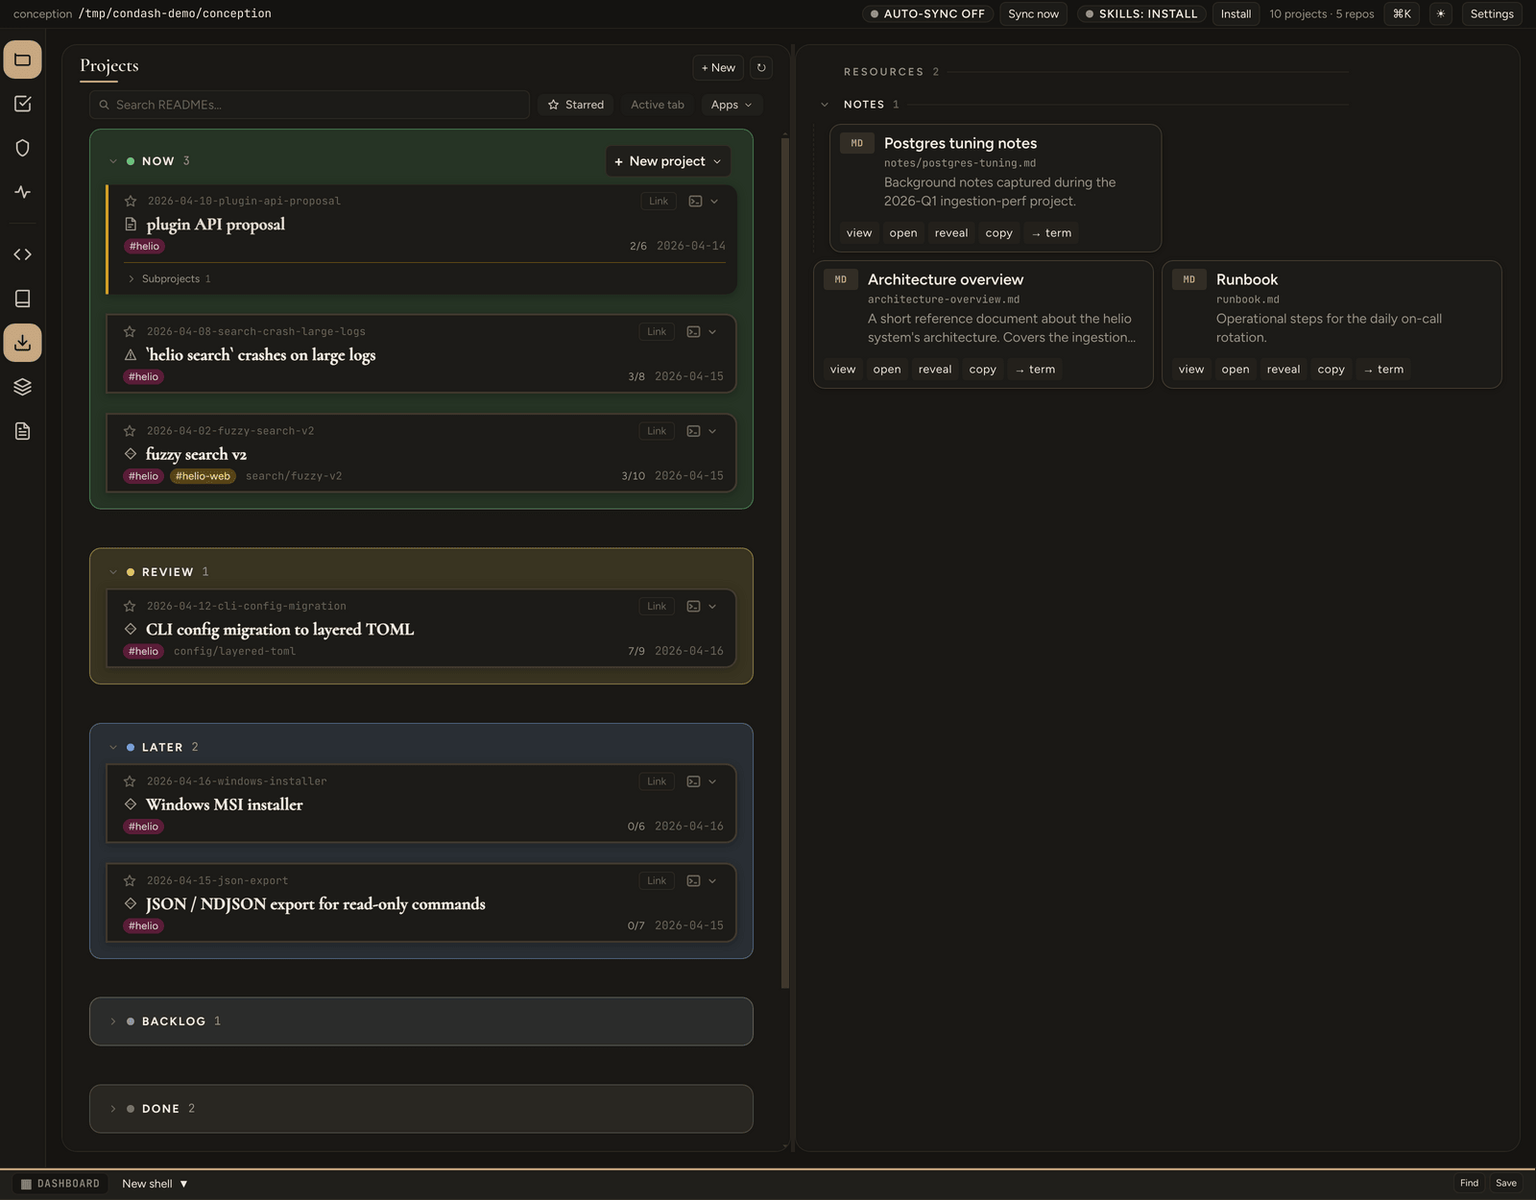
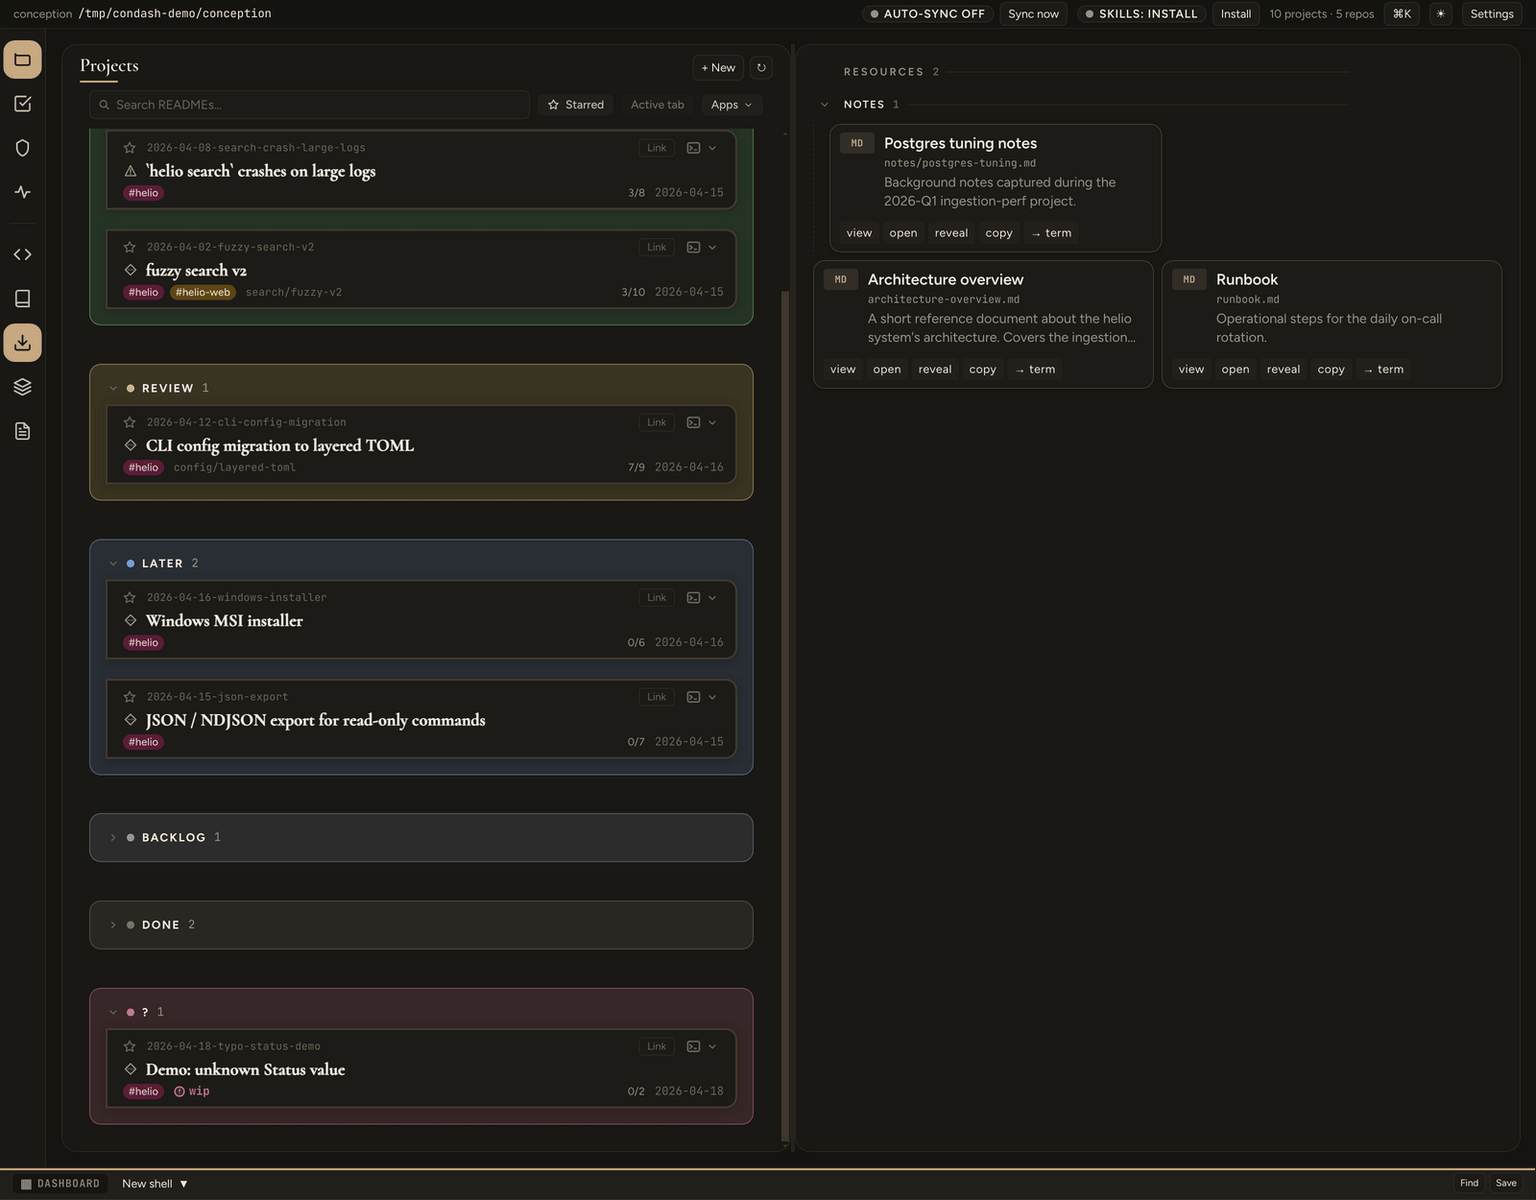
docs: stop resetting the stack scroll, and make publishing verify itself
Round 3 found two published images broken, both by the previous commit, and both invisible to every check then in place.

The scrollTop reset scrolled status-unknown-badge's entire subject out of frame. That shot deliberately scrollIntoViewIfNeeded()s the unknown-status row and asserts it is in the viewport — then shoot() reset the offset to 0, where that lane sits below the fold, and the published pair ended at DONE with no ? group at all. The in-viewport assertion still passed because it runs before the capture. So the reset is gone: settleStackFold now nudges from wherever the capture left the stack. The inherited-offset bug the reset was reaching for is already handled by the thing that actually fixed it — every full-window capture is checked, so an offset arriving from an earlier shot is corrected rather than published.

settings-modal-dark.png was a byte-identical copy of the light file. The captures in tests/screenshots-out/ were correct; I clobbered it publishing them by hand. The docs copy was a shell recipe in the spec header, retyped after every regeneration, and no assertion could see it because the file-level checks read the capture directory, not docs/. It is now scripts/publish-screenshots.mjs, which renames, halves, runs the palette pass, and then verifies: every pair present, plausibly sized, and not byte-identical. Run against the broken tree it reported the defect immediately.
[…]

diff --git a/tests/screenshots.spec.ts b/tests/screenshots.spec.ts
@@ -6,25 +6,19 @@
  *
  * Run as `npm run test -- --reporter=list screenshots.spec.ts`. Output lands in
  * `tests/screenshots-out/{light,dark}/<name>.png` — with NO theme suffix, one
- * directory per theme. Landing them in `docs/assets/screenshots/` therefore
- * needs a rename, not a plain `cp` (a bare
- * `cp tests/screenshots-out/{light,dark}/*.png docs/assets/screenshots/` writes
- * unsuffixed names and lets the dark pass clobber the light one), plus a
- * halving back to the logical `VIEWPORT` size the docs ship:
+ * directory per theme — and reaches `docs/assets/screenshots/` through
  *
- *   for theme in light dark; do
- *     for f in tests/screenshots-out/$theme/*.png; do
- *       convert "$f" -resize 50% -strip \
- *         "docs/assets/screenshots/$(basename "$f" .png)-$theme.png"
- *     done
- *   done
- *   pngquant --force --skip-if-larger --quality=70-95 --ext .png \
- *     docs/assets/screenshots/*.png
+ *   node scripts/publish-screenshots.mjs
  *
+ * which renames per theme, halves the 2× capture back to the logical `VIEWPORT`
+ * size the docs ship, runs the palette pass that keeps the directory at ~2.9 MB,
+ * and then verifies its own output. That used to be a shell recipe retyped here
+ * by hand, and the rename is a trap — a bare `cp` writes unsuffixed names and
+ * lets the dark pass clobber the light one. It was mis-run exactly that way, and
+ * a dark-mode reader was served a light screenshot until a review caught it; the
+ * script's byte-identical-pair check is that failure, made unshippable.
  * (ImageMagick and pngquant are local docs-authoring tools only — the harness
- * itself has no such dependency, so the tag-time CI run stays clean. Without
- * them, `cp` the 2× files instead and accept ~14 MB of assets. The palette pass
- * is what keeps the whole directory at ~2.7 MB.)
+ * itself has no such dependency, so the tag-time CI run stays clean.)
  *
  * The window is composed at 1600×1250 logical px and captured at
  * `deviceScaleFactor: 2`, so the raw PNGs are 3200×2500. The height is picked
@@ -449,85 +443,112 @@ async function requireContent(
  *  rendering artefact rather than as content continuing past it. */
 const MIN_VISIBLE_LANE_PX = 60;
 
-/**
- * Every fold offence seen during a sweep, and how many times the stack was
- * actually inspected. Both are asserted at the end of the test rather than at
- * the capture site, because `shoot()` swallows its own errors by design.
- *
- * The counter is the guard against the probe silently ceasing to run: rename
- * `.projects-stack` or wrap the lanes and `foldChecks` falls to zero, which
- * fails as loudly as an offence would.
- */
-const foldOffences: string[] = [];
-let foldChecks = 0;
+/** Full-window captures that frame the Projects stack. Asserted as an exact
+ *  count, not a floor: both earlier rounds of this work failed because a check
+ *  quietly stopped covering shots, and `> 0` reproduces that hole. */
+const STACK_FRAMING_SHOTS = [
+  'dashboard-overview',
+  'knowledge-pane',
+  'resources-pane',
+  'skills-pane',
+  'terminal',
+  'spawn-dropdown',
+  'item-fuzzy-search',
+  'item-document-with-pdf',
+  'status-unknown-badge',
+  'settings-modal',
+] as const;
 
 /**
- * Place the Projects stack's scroll offset, then report any lane a clip edge
- * has sliced to a hairline.
+ * Every fold offence seen during a sweep, and every shot where the stack was
+ * actually inspected. Both are asserted at the end of the test rather than at
+ * the capture site, because `shoot()` swallows its own errors by design.
+ */
+const foldOffences: string[] = [];
+const foldChecked: string[] = [];
+
+/**
+ * Nudge the Projects stack's scroll offset if a clip edge has sliced a lane to
+ * a hairline, then record what is left.
  *
  * The stack overflows on this fixture, so *a* fold is expected, and a lane cut
  * through its body reads correctly as scrolled content. What reads as a defect
  * is a sliver — a few pixels of a lane's rounded edge and tint pinned against a
- * clip edge of a published screenshot. The contract is therefore: **a lane is
- * whole, absent, or cut with at least `MIN_VISIBLE_LANE_PX` on both sides of
- * the cut.** For a lane shorter than twice that — every collapsed lane — the
- * contract reduces to whole-or-absent, which is deliberate: there is no amount
- * of a 51px panel that reads as "continues below".
+ * clip edge of a published screenshot. The contract: **a lane is whole, absent,
+ * or cut with at least `MIN_VISIBLE_LANE_PX` on both sides of the cut.** For a
+ * lane shorter than twice that — every collapsed lane — this reduces to
+ * whole-or-absent, deliberately: no amount of a 51px panel reads as "continues
+ * below".
  *
  * Three cases, not four. At the bottom clip edge both a slivered lane top and a
  * sliced-off closing border count — that border exists precisely so the panel
  * "ends somewhere definite" (`projects-pane.css`). At the top clip edge only a
- * slivered lane *bottom* counts: a stray band of the previous lane's tail reads
- * as an artefact, whereas a lane whose opening border is above the clip edge is
- * simply what scrolled content looks like, and treating it as a defect makes
- * the constraint unsatisfiable — measured, no scroll offset then clears the
+ * slivered lane *bottom* counts: a lane whose opening border is above the clip
+ * edge is simply what scrolled content looks like, and treating it as a defect
+ * makes the constraint unsatisfiable — measured, no offset then clears the
  * terminal shot at all.
  *
- * **Scroll is reset to 0 first, always.** The offset is otherwise inherited
- * from whatever the capture sequence happened to do earlier, which made shots
- * depend on each other's order: an earlier version of this routine scrolled the
- * stack for `terminal` and the offset leaked into `item-fuzzy-search` and
- * `item-document-with-pdf`, publishing the very sliver it had just removed from
- * `terminal`. Resetting makes every capture independent of the ones before it.
+ * **It nudges from wherever the capture left the stack; it does not reset.** An
+ * earlier version forced `scrollTop = 0` to kill an inherited-offset bug, and
+ * that scrolled `status-unknown-badge`'s whole subject — the trailing `?` lane
+ * — out of frame, because at 0 that lane sits below the fold. Resetting
+ * destroys a scroll position a capture set on purpose. Inheritance is harmless
+ * now for the reason the reset was reaching for anyway: every full-window
+ * capture is checked, so an offset arriving from an earlier shot is corrected
+ * here rather than published.
  */
-async function settleStackFold(page: Page, label: string): Promise<void> {
+async function settleStackFold(page: Page, label: string): Promise<'absent' | 'checked'> {
   const result = await page.evaluate((minVisible) => {
     const stack = document.querySelector('.projects-stack');
-    if (!stack) return { present: false, offence: null as string | null };
+    if (!stack) return { present: false, lanes: 0, offence: null as string | null };
     const lanes = Array.from(stack.querySelectorAll(':scope > .group-block'));
-    if (!lanes.length) return { present: false, offence: null as string | null };
+    // A mounted stack with no lanes means the selector stopped matching, not
+    // that there is nothing to check — report it rather than skipping.
+    if (!lanes.length) return { present: true, lanes: 0, offence: null as string | null };
 
     const view = stack.clientHeight;
     const maxScroll = Math.max(0, stack.scrollHeight - view);
-    // Content-space geometry, derived from rects relative to the stack rather
-    // than from `offsetTop` — that is measured against `offsetParent`, which is
-    // only the stack when the stack happens to be positioned.
+    // Content-space geometry from rects relative to the stack, not `offsetTop`:
+    // that is measured against `offsetParent`, only the stack when positioned.
     const geom = (lane: Element) => {
       const stackRect = stack.getBoundingClientRect();
       const box = lane.getBoundingClientRect();
       const top = box.top - stackRect.top - stack.clientTop + stack.scrollTop;
       return { top, height: box.height, bottom: top + box.height };
     };
+    type Kind = 'lane-top' | 'closing-border' | 'lane-bottom';
     const offenceAt = (scrollTop: number) => {
       const viewTop = scrollTop;
       const viewBottom = scrollTop + view;
       for (const lane of lanes) {
         const g = geom(lane);
         const cap = Math.min(minVisible, g.height);
-        const cases = [
-          { edge: 'bottom-clip, top of lane', px: viewBottom - g.top },
-          { edge: 'bottom-clip, closing border', px: g.bottom - viewBottom },
-          { edge: 'top-clip, bottom of lane', px: g.bottom - viewTop },
+        // `kind` is a discriminant, never parsed back out of the message: the
+        // scroll strategy keys on it, so wording must not be able to change it.
+        const cases: { kind: Kind; px: number; label: string }[] = [
+          {
+            kind: 'lane-top',
+            px: viewBottom - g.top,
+            label: 'top of lane at the bottom clip edge',
+          },
+          {
+            kind: 'closing-border',
+            px: g.bottom - viewBottom,
+            label: 'closing border past the bottom clip edge',
+          },
+          {
+            kind: 'lane-bottom',
+            px: g.bottom - viewTop,
+            label: 'bottom of lane at the top clip edge',
+          },
         ];
         for (const c of cases) {
           if (c.px >= 1 && c.px < cap) {
             return {
               status: lane.getAttribute('data-status'),
               height: Math.round(g.height),
-              edge: c.edge,
-              px: Math.round(c.px),
-              laneTop: g.top,
-              laneBottom: g.bottom,
+              ...c,
+              g,
             };
           }
         }
@@ -535,26 +556,30 @@ async function settleStackFold(page: Page, label: string): Promise<void> {
       return null;
     };
 
-    stack.scrollTop = 0;
-    for (let pass = 0; pass < 6; pass += 1) {
+    const clamp = (n: number) => Math.min(maxScroll, Math.max(0, n));
+    for (let pass = 0; pass < 8; pass += 1) {
       const hit = offenceAt(stack.scrollTop);
-      if (!hit) return { present: true, offence: null as string | null };
-      // Move the offending edge clear in the direction that costs least: pull
-      // the fold above a slivered lane top, push it past a sliced closing
-      // border. The earlier single-strategy version always pulled back, which
-      // for a bottom-edge hit scrolled by the lane's whole height.
-      const target = hit.edge.startsWith('bottom-clip')
-        ? hit.edge.endsWith('top of lane')
-          ? hit.laneTop - 8 - view
-          : hit.laneBottom + 8 - view
-        : hit.laneBottom + 8;
-      const next = Math.min(maxScroll, Math.max(0, target));
-      if (Math.abs(next - stack.scrollTop) < 1) {
+      if (!hit) return { present: true, lanes: lanes.length, offence: null as string | null };
+      // Both directions are tried for every case. A single strategy is what made
+      // a slivered lane top unfixable at scrollTop 0: pulling back clamps to the
+      // current offset and the routine then declared the whole range hopeless
+      // without ever having tried forward.
+      const candidates = [
+        hit.kind === 'closing-border' ? hit.g.bottom + 8 - view : hit.g.top - 8 - view,
+        hit.kind === 'lane-bottom' ? hit.g.bottom + 8 : hit.g.top - view + hit.height + 8,
+        hit.g.top - 8,
+        hit.g.bottom + 8 - view,
+      ]
+        .map(clamp)
+        .filter((n) => Math.abs(n - stack.scrollTop) >= 1);
+      const next = candidates.find((n) => !offenceAt(n));
+      if (next === undefined) {
         return {
           present: true,
+          lanes: lanes.length,
           offence:
-            `${hit.px}px of the ${hit.height}px '${hit.status}' lane at the ${hit.edge}; ` +
-            `no scroll offset in [0, ${Math.round(maxScroll)}] clears it`,
+            `${hit.px}px of the ${hit.height}px '${hit.status}' lane — ${hit.label}; ` +
+            `no offset in [0, ${Math.round(maxScroll)}] clears it`,
         };
       }
       stack.scrollTop = next;
@@ -562,16 +587,20 @@ async function settleStackFold(page: Page, label: string): Promise<void> {
     const left = offenceAt(stack.scrollTop);
     return {
       present: true,
+      lanes: lanes.length,
       offence: left
-        ? `${left.px}px of the ${left.height}px '${left.status}' lane at the ${left.edge}; ` +
-          `still offending after 6 passes`
+        ? `${left.px}px of the ${left.height}px '${left.status}' lane — ${left.label}; still offending after 8 passes`
         : null,
     };
   }, MIN_VISIBLE_LANE_PX);
 
-  if (!result.present) return;
-  foldChecks += 1;
+  if (!result.present) return 'absent';
+  if (!result.lanes) {
+    foldOffences.push(`${label}: .projects-stack is mounted but holds no .group-block lanes`);
+    return 'checked';
+  }
   if (result.offence) foldOffences.push(`${label}: ${result.offence}`);
+  return 'checked';
 }
 
 /**
@@ -600,10 +629,10 @@ async function readTerminalText(page: Page): Promise<string> {
 async function shoot(page: Page, theme: Theme, name: string): Promise<void> {
   const dir = join(outRoot, theme);
   await mkdir(dir, { recursive: true });
-  // Every full-window capture, not a hand-picked list: the Projects stack is on
-  // screen for nine of them and the set is easy to mis-enumerate. No-ops when
-  // the stack is not mounted.
-  await settleStackFold(page, `${theme}/${name}`);
+  // Every full-window capture, not a hand-picked list: the stack is on screen
+  // for ten of them and the set is easy to mis-enumerate. No-ops when the stack
+  // is not mounted; `STACK_FRAMING_SHOTS` pins which ones must reach it.
+  if ((await settleStackFold(page, `${theme}/${name}`)) === 'checked') foldChecked.push(name);
   try {
     await page.screenshot({
       path: join(dir, `${name}.png`),
@@ -1120,12 +1149,12 @@ test('capture every documentation screenshot in light + dark', async () => {
       }
     }
   }
-  // The stack is framed by nine of the full-window shots; zero inspections
-  // means the probe stopped matching, not that everything was clean.
+  // Exact set, not a count: both earlier rounds of this work failed because a
+  // check quietly stopped covering shots, and a floor reproduces that hole.
   expect(
-    foldChecks,
-    'the Projects-stack fold probe never ran — did .projects-stack move?',
-  ).toBeGreaterThan(0);
+    [...new Set(foldChecked)].sort(),
+    'the Projects-stack fold probe did not reach exactly the shots that frame it',
+  ).toEqual([...STACK_FRAMING_SHOTS].sort());
   expect(
     foldOffences,
     `a clip edge slices a status lane to a hairline (reads as a rendering glitch):\n  ${foldOffences.join('\n  ')}`,

diff --git a/AGENTS.md b/AGENTS.md
@@ -89,12 +89,12 @@ A Playwright run launches the **real Electron app**, which on a Wayland desktop 
 
 ### Documentation screenshots
 
-`tests/screenshots.spec.ts` is the only source of the PNGs under `docs/assets/screenshots/`. Run it as `npm run test -- --reporter=list screenshots.spec.ts`; it writes `tests/screenshots-out/{light,dark}/<slug>.png` (no theme suffix — the copy into `docs/` renames *and* halves them; the recipe is in the spec's header). Four things about it are load-bearing:
+`tests/screenshots.spec.ts` is the only source of the PNGs under `docs/assets/screenshots/`. Run it as `npm run test -- --reporter=list screenshots.spec.ts`, then publish with `node scripts/publish-screenshots.mjs` — which renames per theme, halves the 2× capture, runs the palette pass, and verifies its own output (`--check` re-verifies without rewriting). Publishing by hand is what let a light screenshot ship as the dark variant; the script's byte-identical-pair check exists for that. Four things about it are load-bearing:
 
 - **It captures at 2× on purpose.** Electron's `--force-device-scale-factor=2` makes the compositor surface 2×, and a CDP `Emulation.setDeviceMetricsOverride` makes the *page* agree — `page.setViewportSize` cannot carry a scale factor and pins the page to dpr 1. With only the Electron flag (the pre-2026-07 setup) xterm rendered its glyphs at half size and every committed `terminal-*.png` had an unreadable body.
 - **Everything it writes lives under one stable `<tmpdir>/condash-demo/`**, not a `mkdtemp` suffix: deliverable rows and the Settings modal render absolute paths straight into published PNGs. `workspace_path` / `worktrees_path` are **rewritten into the copied fixture config from that root** at boot rather than read out of it — the fixture's `/tmp/...` literals are a readable default only, and on a host with `TMPDIR ≠ /tmp` reading them would seed repos outside the tree the run wipes, which the second theme then dies on (`git commit` with an empty index).
 - **`tests/fixtures/conception-demo/` is a conception tree and nothing else.** Its `.condash/settings.json` carries only conception-owned keys; the personal half (`agents`, `terminal`, `open_with`, `pdf_viewer`) is seeded into the throwaway XDG `settings.json` by the spec (`demoGlobalSettings`). The spec also `git init`s the repos the fixture's `repositories` list names, so the Code pane has real branches and a real dirty count. **The fixture is published to the world through these images** — no real handle, hostname, e-mail, or `/home/<user>` path may enter it.
-- **The test asserts its own output in two layers, and neither replaces looking at the images.** Per slug, immediately before each capture, `requireContent()` asserts the target surface is mounted and populated (visible, non-degenerate box, a minimum count of its content elements, or specific text; the terminal is read out of the xterm buffer via `data-test-xterm-registry`, since WebGL puts nothing in the DOM). After the sweep, the file checks assert each slug exists in both themes, clears a byte floor, and — for full-window shots — matches `VIEWPORT × DEVICE_SCALE` (the logical window is 1600×1250; the height is measured, not chosen — see the spec header). A third per-slug probe, `requireNoBisectedLane()`, fails the `dashboard-overview` capture when the Projects stack's fold leaves only a sliver of a status lane, which is how a 10px band of a rounded panel top reached the published docs at the former 1100. **What the file layer alone cannot catch is a full-window shot whose target pane is blank or empty-state**: the surrounding chrome dominates the byte count, so all three regressions this harness was rebuilt to fix would have passed it. That is what the per-slug probes are for; add one at any new `shoot()` site. Never weaken either layer back (it used to end on `expect(true).toBe(true)`, which is how three blank shots reached `docs/`; `shoot()` swallows its own errors by design) — and **visual inspection of all 34 images after every regeneration remains mandatory**, because "populated" is not "correct".
+- **The test asserts its own output in two layers, and neither replaces looking at the images.** Per slug, immediately before each capture, `requireContent()` asserts the target surface is mounted and populated (visible, non-degenerate box, a minimum count of its content elements, or specific text; the terminal is read out of the xterm buffer via `data-test-xterm-registry`, since WebGL puts nothing in the DOM). After the sweep, the file checks assert each slug exists in both themes, clears a byte floor, and — for full-window shots — matches `VIEWPORT × DEVICE_SCALE` (the logical window is 1600×1250; the height is measured, not chosen — see the spec header). A third layer, `settleStackFold()`, runs inside `shoot()` on **every** full-window capture: it nudges the Projects stack's scroll offset when a clip edge has sliced a status lane to a hairline, and records what it cannot fix for a file-level assertion — with the set of shots it reached asserted exactly, not as a floor. Both earlier attempts at this failed the same way, by maintaining a list of which shots to check by hand: the first missed `terminal`/`spawn-dropdown`, the second leaked a scroll offset into `item-*`. Do not reintroduce a list. **What the file layer alone cannot catch is a full-window shot whose target pane is blank or empty-state**: the surrounding chrome dominates the byte count, so all three regressions this harness was rebuilt to fix would have passed it. That is what the per-slug probes are for; add one at any new `shoot()` site. Never weaken either layer back (it used to end on `expect(true).toBe(true)`, which is how three blank shots reached `docs/`; `shoot()` swallows its own errors by design) — and **visual inspection of all 34 images after every regeneration remains mandatory**, because "populated" is not "correct".
 
 **Watchpoints — where a tag-time failure in this spec most likely comes from.** Unlike `ui-revamp-shots.spec.ts`, this spec has no skip guard, so it runs in the full suite that gates a release tag while the light CI gate never runs Playwright at all. Three environment dependencies are the deliberate price of the terminal shot being real rather than staged, and they are the first things to check:
 
